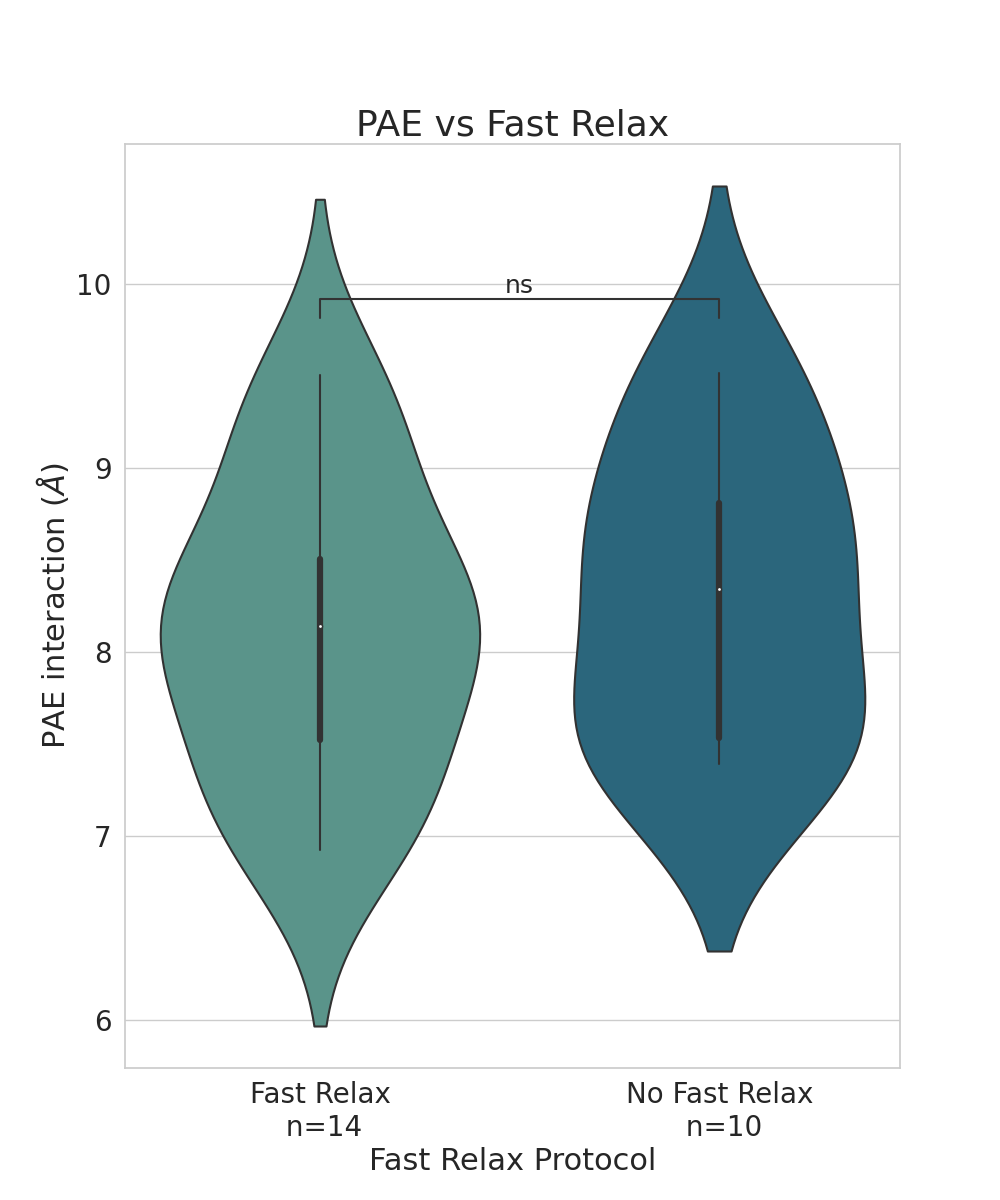
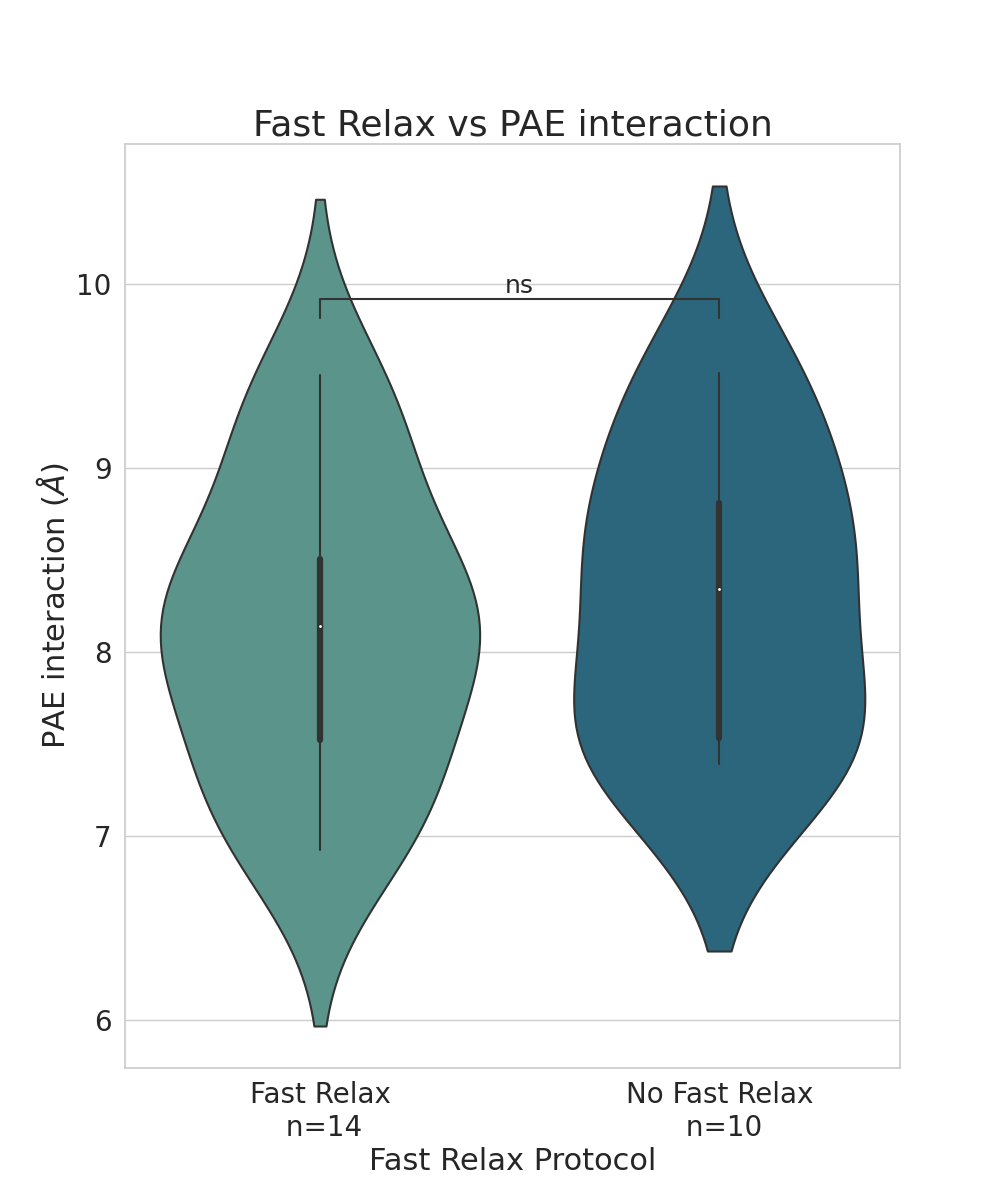
figures

Changed region(s): [[0.248, 0.0925, 0.775, 0.1233]]

diff --git a/FIGURES/Fast_relax_figures.py b/FIGURES/Fast_relax_figures.py
@@ -80,15 +80,15 @@ sns.set(style="whitegrid")
 plt.figure(figsize=(10,12))
 barplot = sns.barplot(x='Campaign', y='Percentage', data=df_plot, palette='crest')
 
-# Add significance bracket with an asterisk
-x1, x2 = 0, 1   # x-coordinates of the bars
-y, h, col = max(df_plot['Percentage']) + 0.01, 0.02, 'k'  # y-coordinate, height of the bracket, color
-plt.plot([x1, x1, x2, x2], [y, y+h, y+h, y], lw=1.5, c=col)
-plt.text((x1+x2)*.5, y+h, "*", ha='center', va='bottom', color=col)
-# Add a box with the p-value in the upper left corner
-p_value = 0.048  # Replace with the actual p-value when available
-textstr = f'p-value = {p_value}'
-props = dict(boxstyle='round,pad=0.3', edgecolor='black', facecolor='white')
+# # Add significance bracket with an asterisk
+# x1, x2 = 0, 1   # x-coordinates of the bars
+# y, h, col = max(df_plot['Percentage']) + 0.01, 0.02, 'k'  # y-coordinate, height of the bracket, color
+# plt.plot([x1, x1, x2, x2], [y, y+h, y+h, y], lw=1.5, c=col)
+# plt.text((x1+x2)*.5, y+h, "*", ha='center', va='bottom', color=col)
+# # Add a box with the p-value in the upper left corner
+# p_value = 0.048  # Replace with the actual p-value when available
+# textstr = f'p-value = {p_value}'
+# props = dict(boxstyle='round,pad=0.3', edgecolor='black', facecolor='white')
 
 # Place the box in the upper left corner
 # plt.gca().text(0.02, 0.95, textstr, transform=plt.gca().transAxes, fontsize=12,
@@ -128,7 +128,7 @@ annotator.configure(
     fontsize=18)
     
 annotator.apply_and_annotate()
-plt.title('PAE vs Fast Relax', fontsize=26)
+plt.title('Fast Relax vs PAE interaction', fontsize=26)
 plt.ylabel(f'PAE interaction ($\AA$)', fontsize=22)
 plt.xlabel('Fast Relax Protocol', fontsize=22)
 
@@ -158,8 +158,8 @@ annotator.configure(
     
 annotator.apply_and_annotate()
 
-plt.title('pLDDT vs _Fast Relax', fontsize=26)
-plt.ylabel(f'pLDDT binder', fontsize=22)
+plt.title('Fast Relax vs pLDDT binder', fontsize=26)
+plt.ylabel(f'pLDDT binder (Arb.Units)', fontsize=22)
 plt.xlabel('Fast Relax Protocol', fontsize=22)
 plt.tick_params(axis='y', labelsize=20)
 plt.tick_params(axis='x', labelsize=20)
@@ -195,7 +195,7 @@ annotator.configure(
     fontsize=18)
     
 annotator.apply_and_annotate()
-plt.title('RMSD vs _Fast Relax', fontsize=26)
+plt.title('Fast Relax vs RMSD', fontsize=26)
 plt.ylabel(f'RMSD ($\AA$)', fontsize=22)
 plt.xlabel('Fast Relax Protocol', fontsize=22)
 plt.tick_params(axis='y', labelsize=20)
